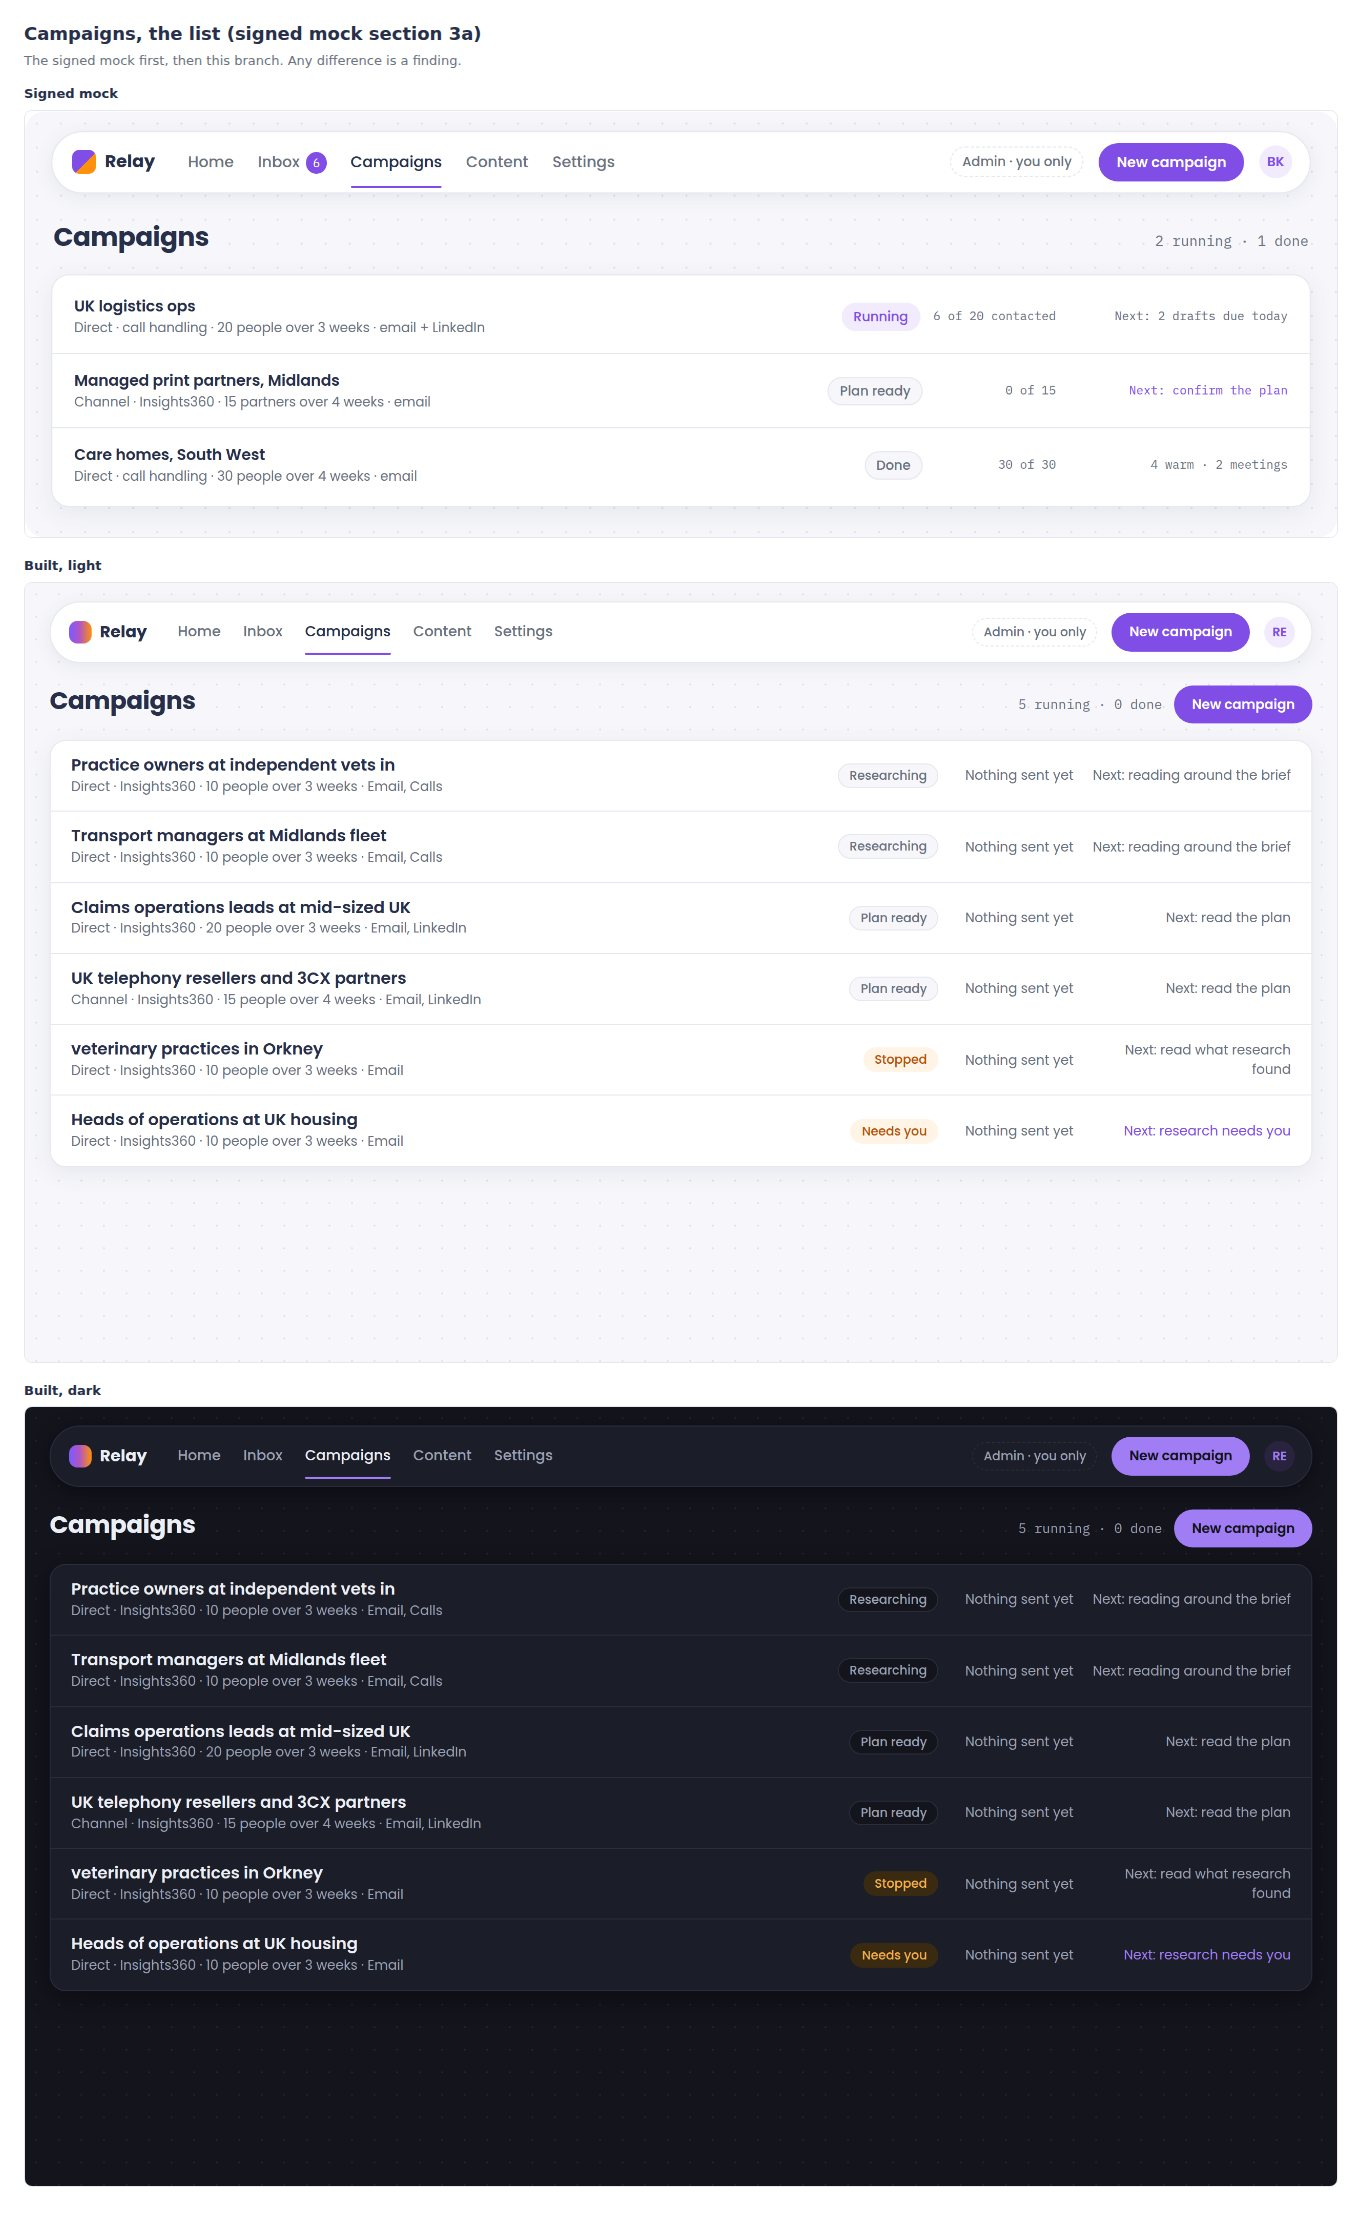
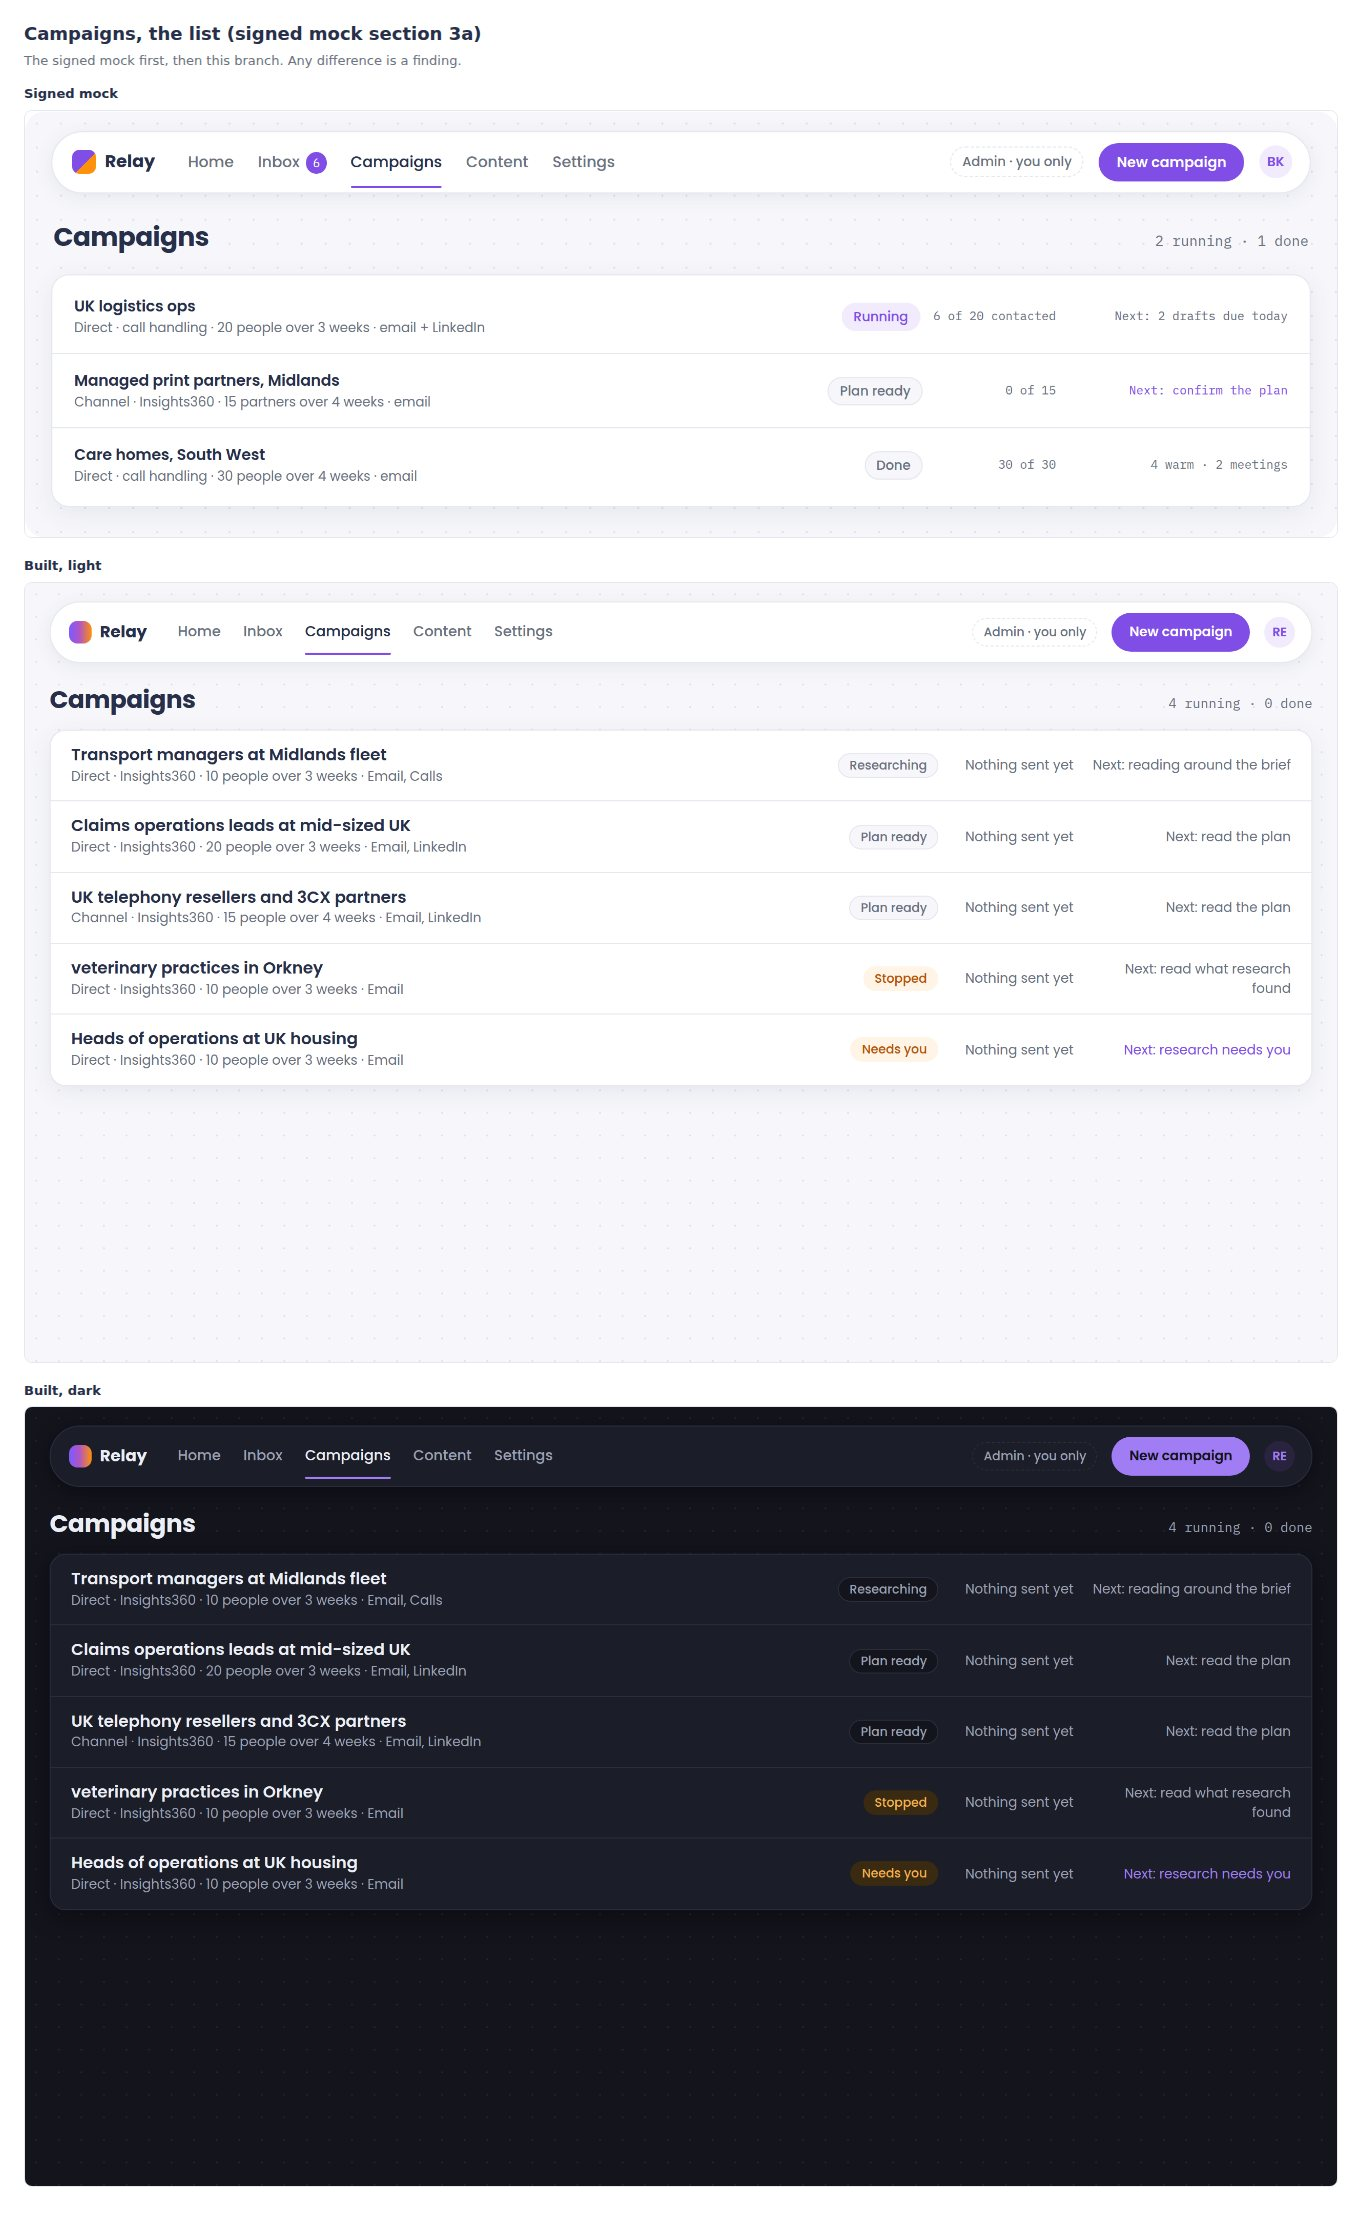
chore(campaigns): design shots refreshed for the nav-only New campaign and the new copy
Only the comparisons the corrections change: the list (no page-header New
campaign), plan ready and plan expanded (Confirm helper), partial (part
names and Confirm helper), failed (retry helper). The rest re-rendered
byte-identical.

Claude-Session: https://claude.ai/code/session_01C8nrgPJ1VTEhqxDND2KxCA

diff --git a/docs/design/task-15/README.md b/docs/design/task-15/README.md
@@ -25,10 +25,10 @@ exists. The component snapshots keep their markup.
 
 ## Known divergences from the mock
 
-1. **"New campaign" shows twice on the list.** It is in the nav now that
-   `me.hasCampaign` is real, and still top right on the list page. Task 9c's
-   note said to move it to the nav once campaigns were real rather than keep
-   both; left for the product owner to call, not changed here.
+1. **"New campaign" is in the nav only**, as the mock draws it, now that
+   `me.hasCampaign` is real (Task 9c's note). The page-header copy of it is
+   gone; a rep with no campaigns still has the empty state's way in, Home's
+   brief box.
 2. **Plan ready is drawn from the runtime's synthetic complete pack.** No
    committed live pack passes today's v3.2 rules whole (brief A v3.1 predates
    note 25), so `campaign-plan-ready.jpg` shows `goodPack()` content
